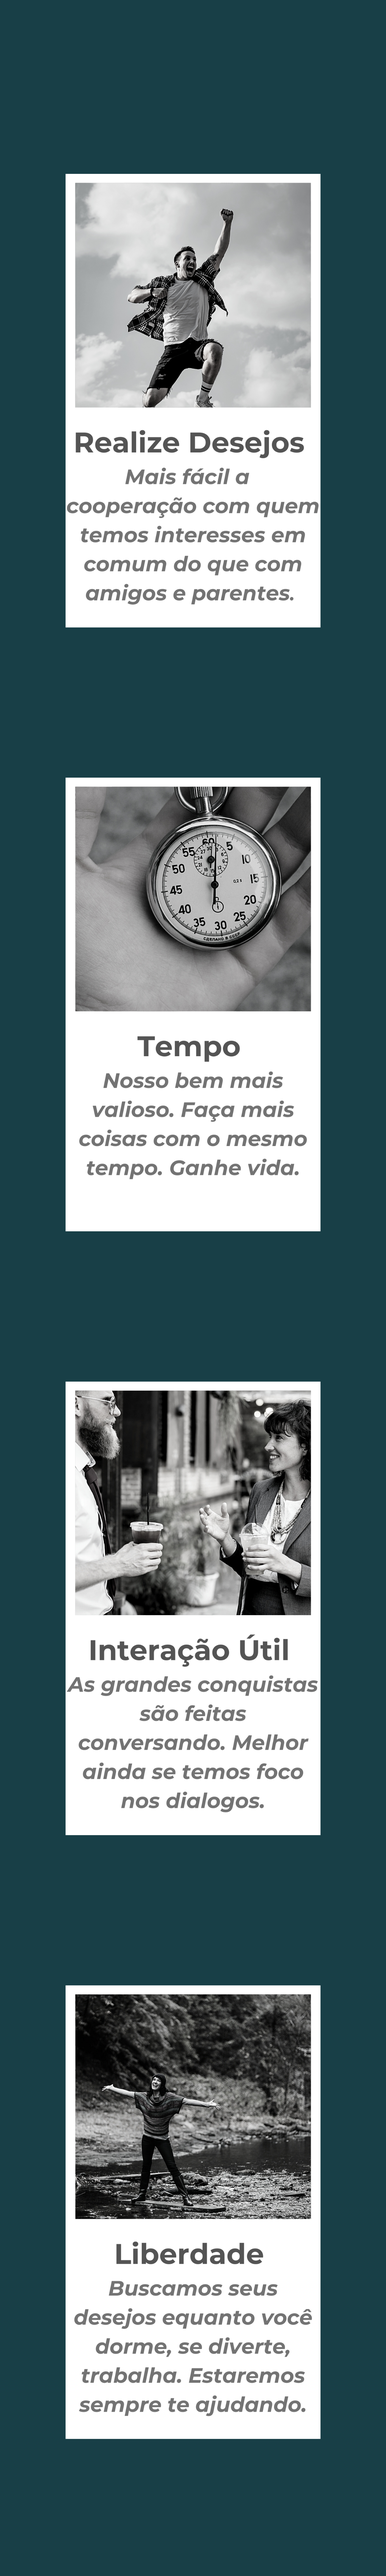
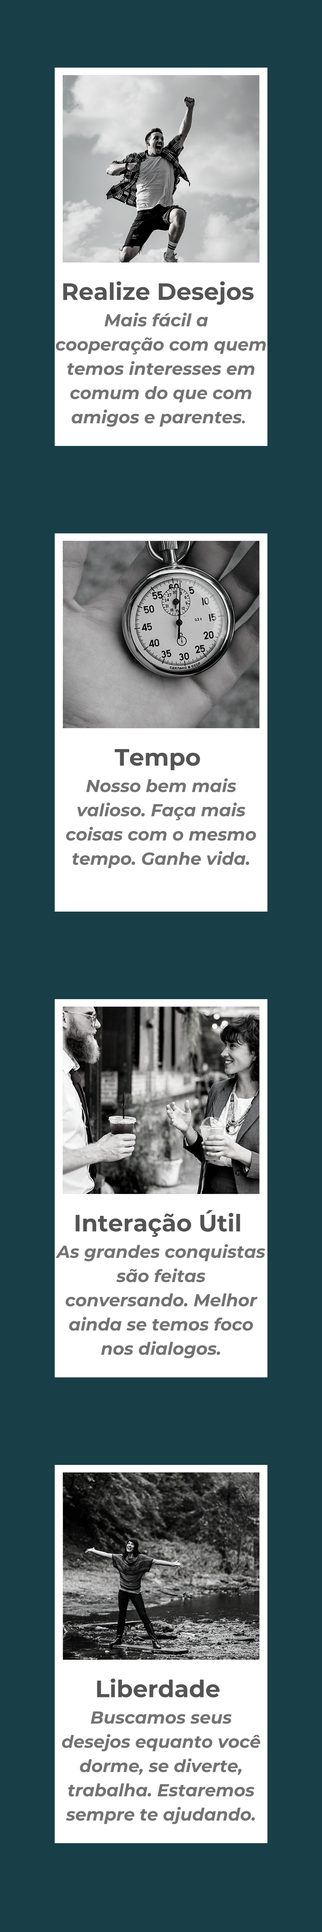
lay  out 12

Changed region(s): [[0.155, 0.0312, 0.837, 0.7168], [0.155, 0.748, 0.837, 0.9662]]

diff --git a/estilo/style.css b/estilo/style.css
@@ -15,12 +15,10 @@
     --profissional: #367687;
 }
 
-header {
+div img{
+    width: 300px;
     background-color: white;
-    border-radius: 30px;
-    margin-top: 10px;
-    width: 100%;
-    
+    border-radius: 10px;
 }
 
 h1 {
@@ -45,8 +43,9 @@ img {
     border-radius: 20px;
     max-width: 100%;
     height: auto;
-    margin: 0 auto;
+    margin: auto;
     display: block;
+    margin-top: 50Px;
     margin-bottom: 70px;
     box-shadow: 1px 1px 1px rgba(14, 13, 13, 0.447);
 }
@@ -55,16 +54,17 @@ main {
     max-width: 100%;
     text-align: left;
     font-family: var(--fonte-xpunto1);
-    min-width: 360px;
-    max-width: 900px;
-    margin: 0 auto;
+    min-width: 300px;
+    max-width: 800px;
+    margin: auto;
     display: block;
-    
+    border-radius: 10px;
+    box-shadow: 0px 0px 10px rgb(69, 69, 69);
 }
 
 body {
-      margin: 0;
-      height: 100vh;
+      margin: 5px;
+      height: auto;
       background: linear-gradient(to bottom, #65a99b, #183f47);
       background-size: 100% 100%;
       background-repeat: no-repeat;
@@ -91,7 +91,7 @@ section#img01 {
     background-image: url('../imagens/Aurora.jpg');
     background-position: center;
     background-size: cover;
-    border-radius: 20px;
+    border-radius: 10px;
     max-width: 600px;
     margin: auto;
 }
@@ -100,15 +100,35 @@ div {font-size: 100%;
     font-family: var(--fonte-xpunto1);
     color: white;
     text-align: center;
-    margin-bottom: 40px;
+    margin-bottom: 30px;
     text-shadow: 2px 2px 0px rgb(57, 57, 57);
 }
 
 nav {
-    background-color: var(--solirario);
-    
+    border-radius: 10px;
+    background-color: #E7BE20;
+    padding: 10px;
+    box-shadow: 0px 7px 9px rgba(30, 30, 30, 0.785);
+}
+nav > a {
+    color: white;
+    padding: 5px;
+    border-radius: 5px;
+    text-decoration: none;
+    font-family: Arial, Helvetica, sans-serif;
+    font-weight: bold;
+    font-size: 12px;
+    padding-left: 5px;
+    transition-duration: .5s;
 }
 
-footer {
-    background-color: white;
+nav > a:hover {
+    background-color: #981310;
+    color: #ffffff;
 }
+
+footer {    
+    min-height: 80px;
+    border-radius: 10px;
+    background-color: white;
+}    

diff --git a/index.html b/index.html
@@ -8,20 +8,20 @@
     <link rel="stylesheet" href="estilo/style.css">
 </head>
 
-<body>
-    <header>
-        <div style="text-align: center;">
-            <img src="imagens/logo.png" alt="logo" width="200">
-        </div>
-    </header>
+<body>        
     <main>
+        <div><img src="imagens/logo.png" alt="logo" width="200"></div>
+
+
         <h1>Um jeito simples de melhorar a vida</h1>
-        <img src="imagens/Pedestre.gif" alt="Pedestre" width="550">
+
+        <section><img src="imagens/Pedestre.gif" alt="Pedestre" width="550px" ></section>
+
         <h1>Atributos</h1>
 
         <picture>
-            <source media="(350px)" srcset="imagens/Atributo2.png">
-            <img src="imagens/Atributo1.gif" alt="Atributo1" width="700px">
+            <source media="(max-width: 550px)" srcset="imagens/Atributo2.png">
+            <img src="imagens/Atributo1.gif" alt="Atributo1">
         </picture>
 
         <section class="imagem" id="img01">
@@ -31,7 +31,7 @@
         <h2>Cadastre-se Web</h2>
         <div>ou</div>
 
-        <img src="imagens/Baixe2.png" alt="Pedestre" width="100" height="10">
+        <img src="imagens/Baixe2.png" alt="Pedestre" width="100px">
 
         <h2>Com a palavra: Nossos Usuários</h2>
 
@@ -50,20 +50,19 @@
             </p>
         </div>
 
-        <img src="imagens/APP.gif" alt="APP" width="100" height="50">
-    
-        <nav>
-            <a href="#">Sobre</a>
-            <a href="#">FAQ</a>
-            <a href="#">Termos de Uso</a>
-            <a href="#">LGPD</a>
-            <a href="#">Dicas de Segurança</a>
-            <a href="#">Fale Conosco</a>
-        </nav>
+        <img src="imagens/APP.gif" alt="APP" width="100px">
+    </main>
+    <nav>
+        <a href="#">Sobre</a>
+        <a href="#">FAQ</a>
+        <a href="#">Termos de Uso</a>
+        <a href="#">LGPD</a>
+        <a href="#">Dicas de Segurança</a>
+        <a href="#">Fale Conosco</a>
+    </nav>
 
-    </main>       
-        <footer>
-            <img src="imagens/logo.png" alt="Logo" width="230">
-        </footer>   
+    <footer>
+        <img src="imagens/logo.png" alt="Logo" width="200px">
+    </footer>   
 </body>
 </html>
